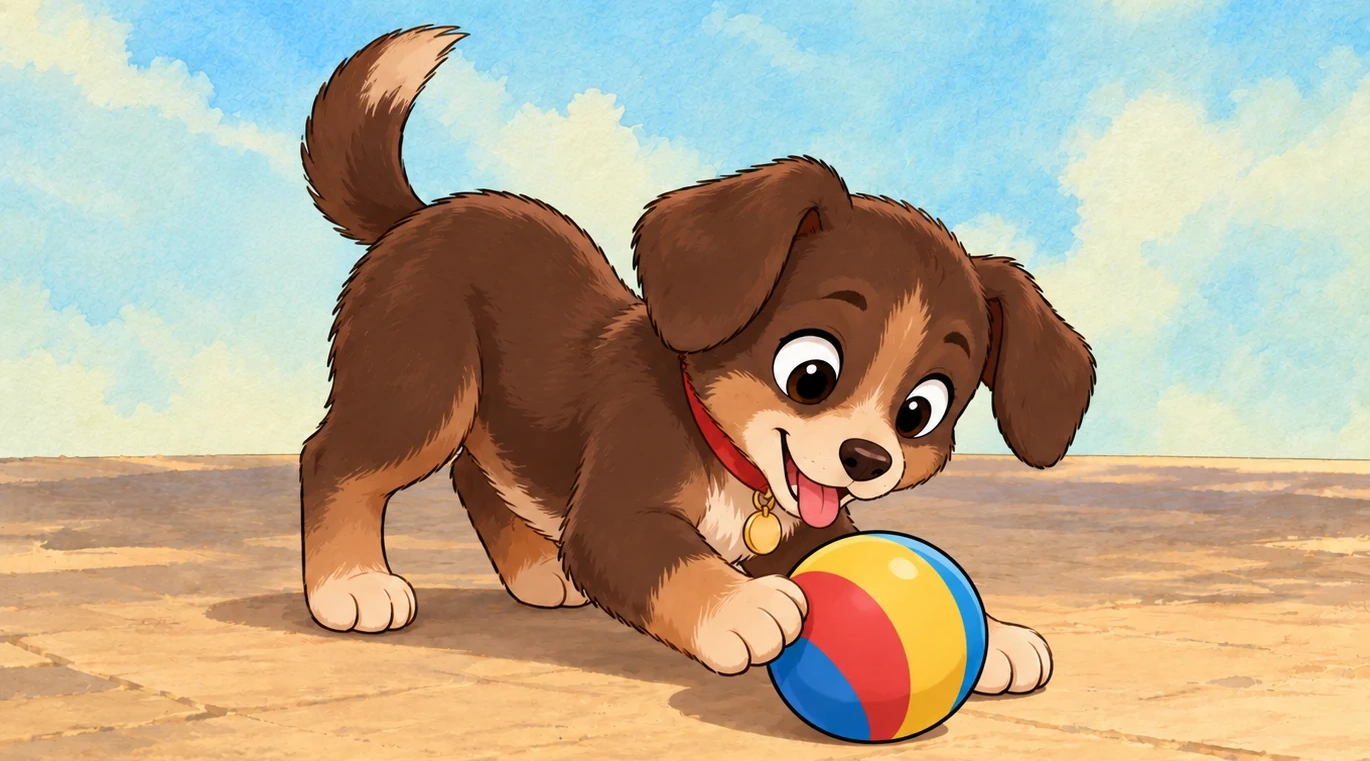
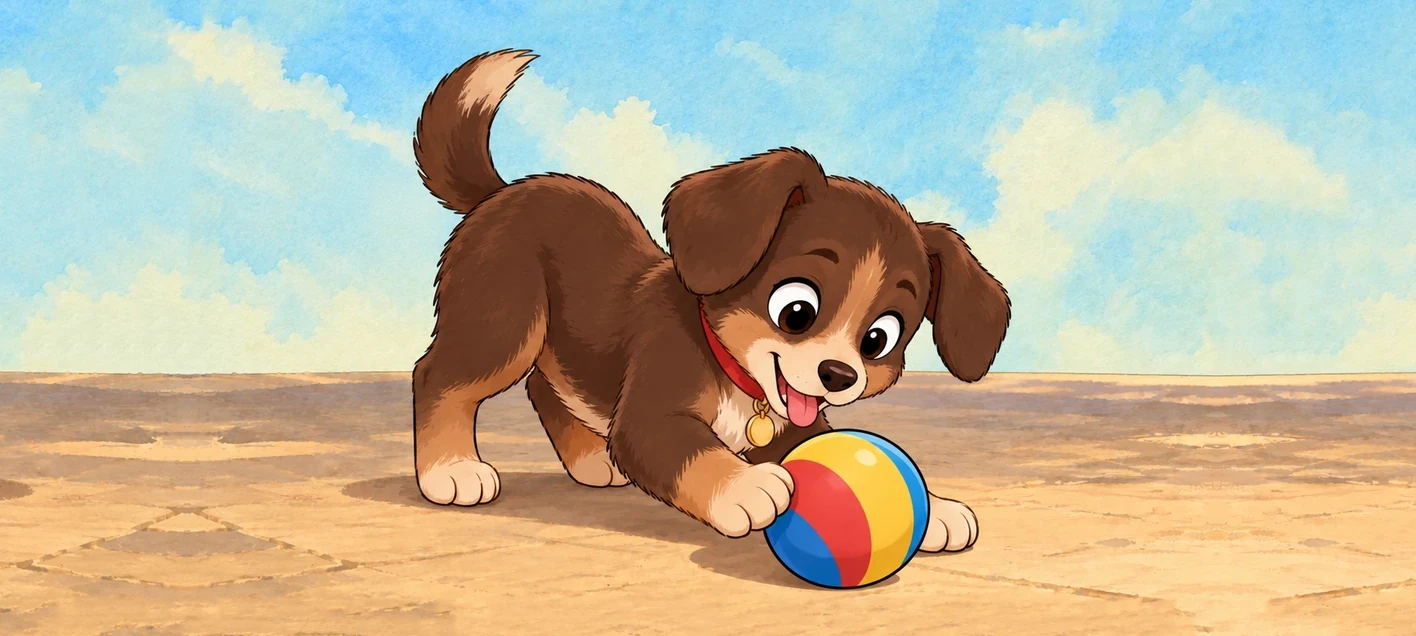
Update train cargo images for consistency in size and appearance

diff --git a/HI02H04_L01_S01/HI02H04_L01_S01.html b/HI02H04_L01_S01/HI02H04_L01_S01.html
@@ -9646,7 +9646,15 @@ html.rotated body.station-page::before{inset:auto;left:50%;top:50%;width:100vh;h
    train_cargo_goat.webp were re-cut to train_cargo_bird.webp's 1370x643, so all three show 235.2 x 110.4px. Nothing was cut from
    either: the plain background was extended outward (mirrored edge bands of sky / floor / grass) - the cat at its sides only, the
    goat also above and below so its tail tip and hooves clear the 3px grey stroke - and the canvas scaled to 1370x643. No rule here
-   changed; P6's pictures are untouched. */
+   changed; P6's pictures are untouched.
+   [P6-CARGO-BOX] (2026-10-21, user request) on P6 a landed picture fills its drop box exactly (245.8 x 110.4px, the dashed
+   placeholder's size): until now each showed at its own width (grandpa 185.3, kite 179.8, dog 198.7px), so once the dashes went
+   the placeholder seemed to shrink. train_cargo_grandpa2 / _kite / _dog.webp were re-cut to the box's own shape (cargo_box
+   236 x 106 -> 1416x636) with nothing cut from them: the plain background was extended outward (the wall, the table running on to
+   the left; the sky and ground; the sky and the tiled floor) - by mirroring a clean edge band where one is wide enough, else from
+   small patches of the picture's own background, matched and feathered - with sky / wall added above each and floor under the dog,
+   so the kite, the grandpa's head and the dog's tail and ball clear the grey stroke. No rule here changed (width auto at the box's
+   height now IS the box's width); the cards under the train (pic_*_wht) are untouched. */
 .stage.ref-figma .ref-panel .ref-cargo.ref-fit .ref-cargo-img,.stage.ref-figma .ref-panel .ref-cargo-img.ref-fit{width:auto;max-width:245.8px;translate:-50% 0;}
 .stage.ref-figma .ref-panel .ref-cargo.ref-fit .ref-cargo-img:nth-child(1){left:384.8px;}
 .stage.ref-figma .ref-panel .ref-cargo.ref-fit .ref-cargo-img:nth-child(2){left:674.3px;}
